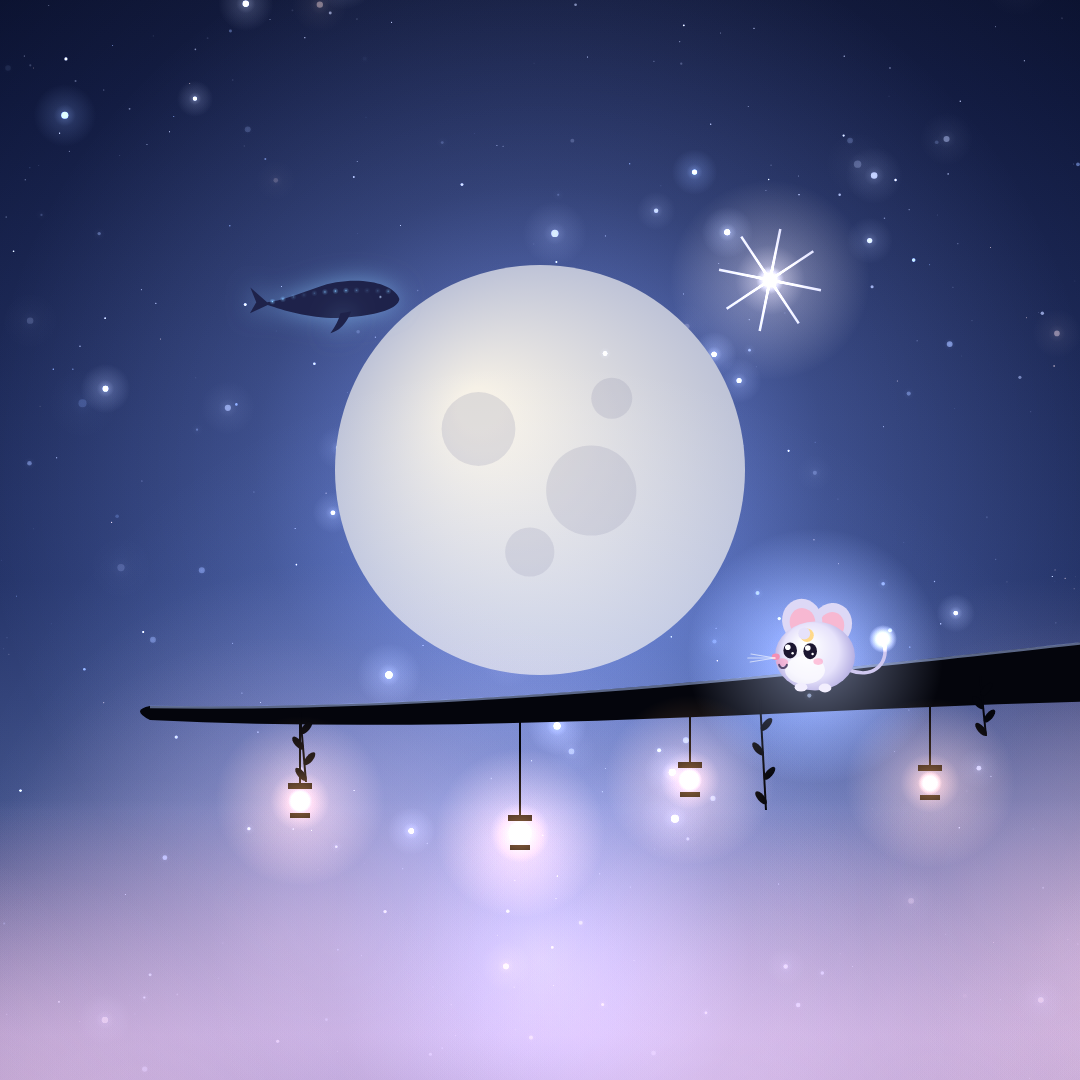
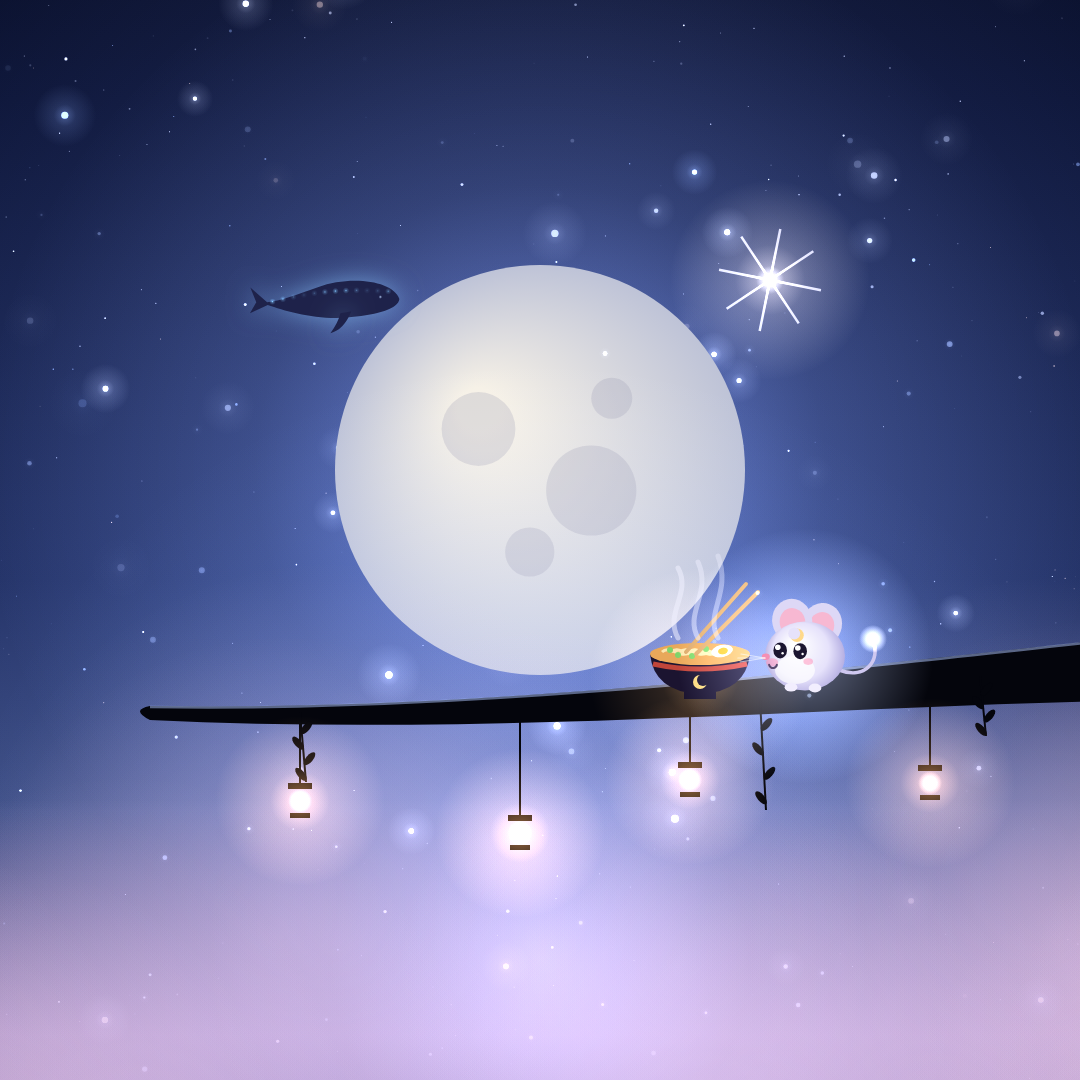
Leben in Valdoria: Profilbild mit heißer Schale Mondweizen-Ramen
Claude-Session: https://claude.ai/code/session_01McNdgartso3nbaZ6x41dY1

Changed region(s): [[0.5806, 0.5194, 0.825, 0.7028]]

diff --git a/stories/branding/profilbild.js b/stories/branding/profilbild.js
@@ -1,4 +1,4 @@
-// Profilbild "Leben in Valdoria" (rund gedacht): Vollmond, Laternen, Lunara und ein Himmelswal im sicheren Kreis.
+// Profilbild "Leben in Valdoria" (rund gedacht): Vollmond, Laternen, Lunara, heiße Ramen und ein Himmelswal im sicheren Kreis.
 // Usage: NODE_PATH=$(npm root -g) node branding/profilbild.js  -> branding/profilbild.png (1080x1080)
 const { chromium } = require('playwright');
 const path = require('path'), fs = require('fs');
@@ -41,8 +41,37 @@ const path = require('path'), fs = require('fs');
       c.fillStyle = col; c.fillRect(lx - 12, by + len, 24, 6); c.fillRect(lx - 10, by + len + 30, 20, 5);
       c.save(); c.globalCompositeOperation = 'lighter'; glow(lx, by + len + 18, 85, 'rgba(255,170,90,A)', 0.6); glow(lx, by + len + 18, 12, 'rgba(255,225,170,A)', 1); c.restore();
     });
+    // a steaming bowl of hot moon-wheat ramen on the branch, next to Lunara
+    {
+      const bx = 700, by = 1068;
+      c.save(); c.globalCompositeOperation = 'lighter'; glow(bx, by - 10, 110, 'rgba(255,190,120,A)', 0.45); c.restore();
+      c.fillStyle = '#1b1430';
+      c.beginPath(); c.moveTo(bx - 50, by - 34); c.quadraticCurveTo(bx - 46, by + 4, bx, by + 6); c.quadraticCurveTo(bx + 46, by + 4, bx + 50, by - 34); c.fill();
+      c.fillRect(bx - 16, by + 4, 32, 7);
+      // red rim band and a little moon emblem on the bowl
+      c.strokeStyle = '#c0453a'; c.lineWidth = 5; c.beginPath(); c.moveTo(bx - 47, by - 24); c.quadraticCurveTo(bx, by - 14, bx + 47, by - 24); c.stroke();
+      c.fillStyle = '#f3d27a'; c.beginPath(); c.arc(bx, by - 6, 7, 0, 7); c.fill(); c.fillStyle = '#1b1430'; c.beginPath(); c.arc(bx + 3, by - 8, 6, 0, 7); c.fill();
+      // broth surface, noodles, egg, spring onions
+      c.fillStyle = '#e8a85a'; c.beginPath(); c.ellipse(bx, by - 34, 50, 11, 0, 0, 7); c.fill();
+      c.strokeStyle = '#fbe7b0'; c.lineWidth = 3;
+      for (let k = 0; k < 5; k++) { c.beginPath(); c.moveTo(bx - 38 + k * 9, by - 36); c.bezierCurveTo(bx - 30 + k * 9, by - 44, bx - 20 + k * 9, by - 28, bx - 10 + k * 9, by - 36); c.stroke(); }
+      c.fillStyle = '#fff6e0'; c.beginPath(); c.ellipse(bx + 22, by - 37, 11, 6, -0.2, 0, 7); c.fill();
+      c.fillStyle = '#ffb92e'; c.beginPath(); c.ellipse(bx + 23, by - 37, 5, 3.4, -0.2, 0, 7); c.fill();
+      c.fillStyle = '#7fd36a'; [[-30, -38], [-22, -33], [6, -39], [-8, -32]].forEach(([dx, dy]) => { c.beginPath(); c.arc(bx + dx, by + dy, 3, 0, 7); c.fill(); });
+      // chopsticks
+      c.strokeStyle = '#d9a86a'; c.lineWidth = 4; c.lineCap = 'round';
+      c.beginPath(); c.moveTo(bx - 14, by - 36); c.lineTo(bx + 46, by - 104); c.moveTo(bx - 4, by - 34); c.lineTo(bx + 58, by - 96); c.stroke();
+      // steam
+      c.save(); c.lineCap = 'round';
+      for (let k = 0; k < 3; k++) {
+        const x0 = bx - 22 + k * 20;
+        c.strokeStyle = `rgba(240,240,255,${0.55 - k * 0.08})`; c.lineWidth = 5;
+        c.beginPath(); c.moveTo(x0, by - 50); c.bezierCurveTo(x0 - 14, by - 75, x0 + 14, by - 95, x0, by - 120 - k * 6); c.stroke();
+      }
+      c.restore();
+    }
     // Lunara on the branch in front of the moon
-    moonMouse(815, 1036, 40, t, { dir: -1, mood: 'happy', fly: false, seed: 0.4 });
+    moonMouse(805, 1036, 40, t, { dir: -1, mood: 'happy', fly: false, seed: 0.4 });
     particles(t, 40, { y0: 1500, dy: -1100, a: 0.5, color: 'rgba(200,220,255,A)', r: 2, life: 9, glowR: 6 });
     // crop to the square around the subject
     const sq = document.createElement('canvas'); sq.width = 1080; sq.height = 1080;
